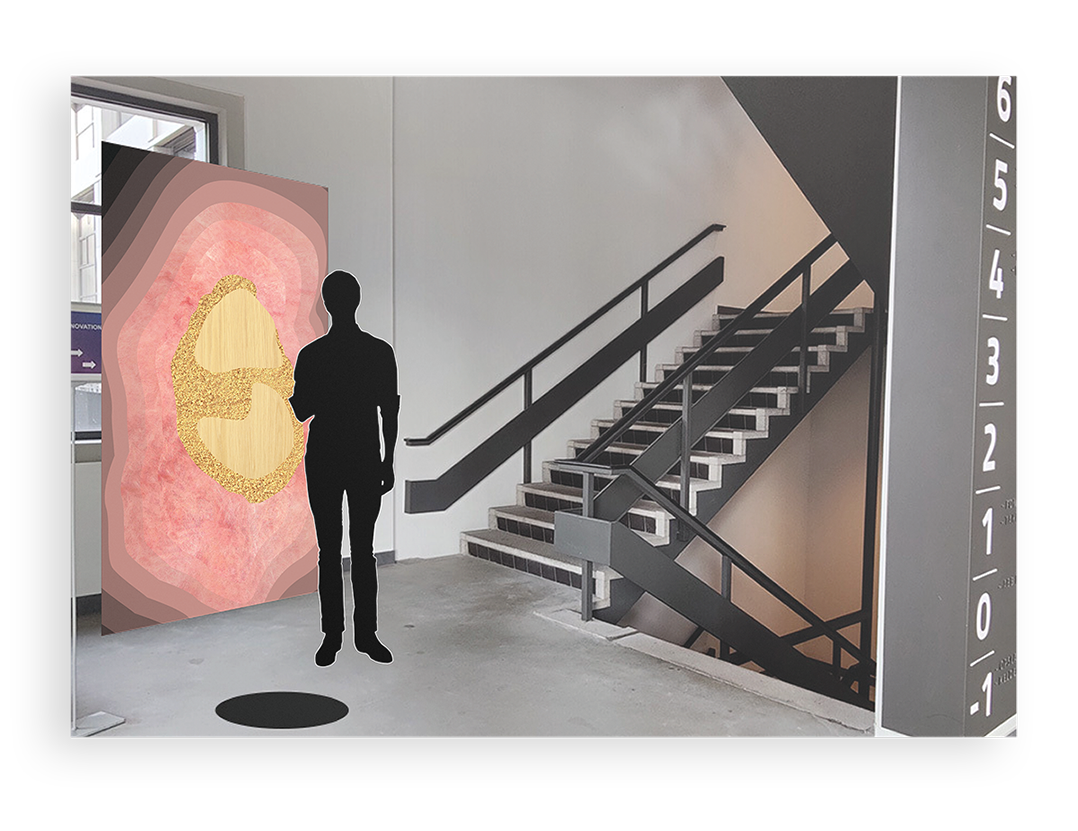
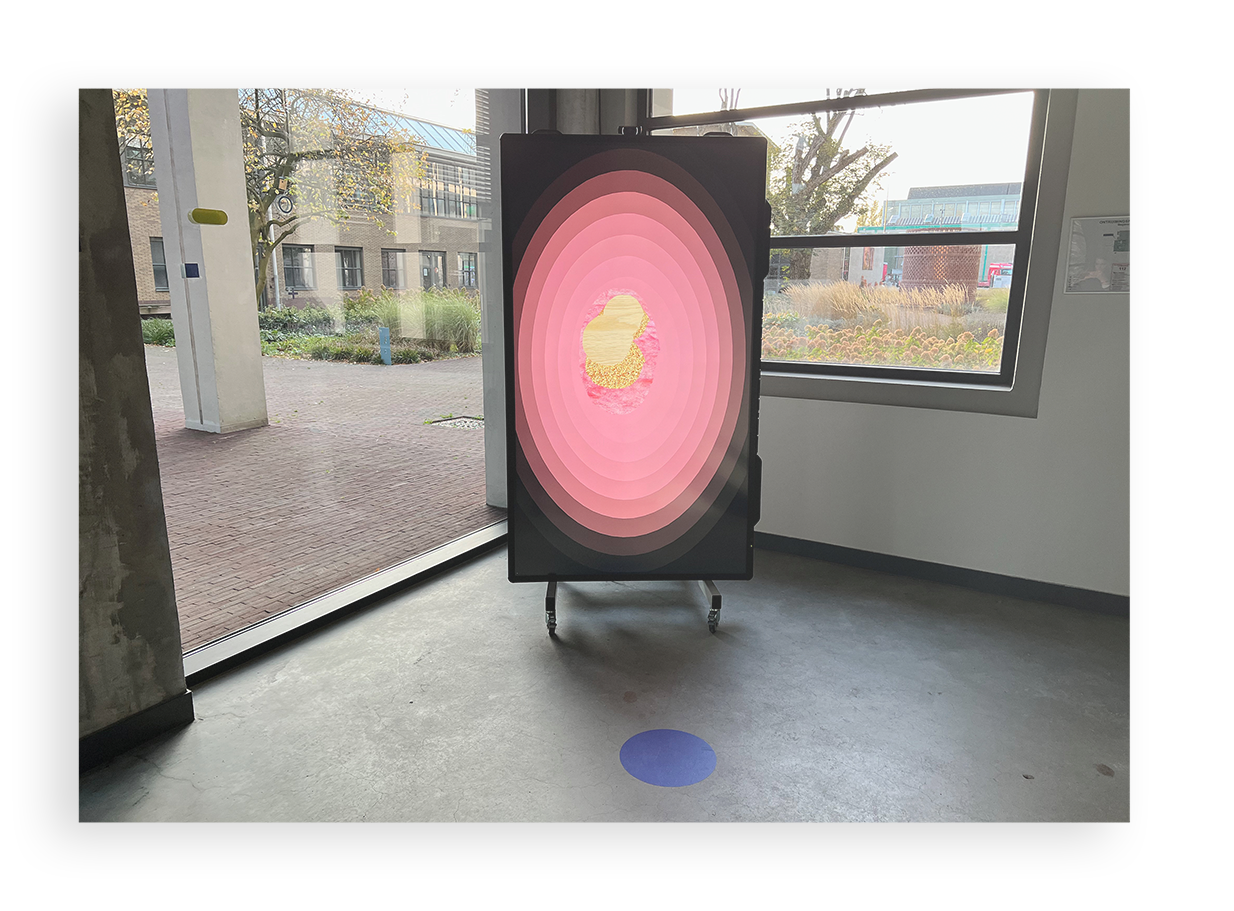
Changing DDW page

diff --git a/src/ddw.html b/src/ddw.html
@@ -60,7 +60,8 @@
         </div>
     </div>
 
-    <div class="ddw-introduction scrollspy-DDW" data-bs-spy="scrollDDW" data-bs-target="#navbar-DDW" data-bs-offset="0" tabindex="0" id="DDW">
+    <div class="ddw-introduction scrollspy-DDW" data-bs-spy="scrollDDW" data-bs-target="#navbar-DDW" data-bs-offset="0"
+        tabindex="0" id="DDW">
         <div class="container">
             <div class="pt-13 pb-13 pt-lg-9 pb-lg-9">
                 <div class="d-flex flex-column align-items-center ddw-text">
@@ -69,11 +70,59 @@
                         Every year the Dutch Design Week takes place in Eindhoven. This is a big design event where
                         designers present their work and ideas. DDW focuses mainly on the future of design and promotes
                         young talents who want to get involved here. The focus of the DDW event is on experimentation,
-                        innovation, and crossover.
+                        innovation, and crossover.<br>
                         For this year’s Dutch Design Week, Fontys offers its visitors an immersive and personalized,
-                        data-driven experience in their ICT InnovationLab.
+                        data-driven experience in their ICT InnovationLab. For this project, we Deltas had the task of
+                        brainstorming and coming up with an idea for DDW's immersive building experience. The main theme
+                        was interactive building and we had to come up with concepts that had to do with emotions and/or
+                        memories.
                         <br /><br />
                         Client: Fontys ICT
+                    </p>
+                </div>
+            </div>
+        </div>
+    </div>
+
+    <div class="ddw-collabs">
+        <div class="container-fluid">
+            <div class="row g-6 row-cols-md-2">
+                <img src="./assets/photos/DDW/ddw-header-01_1664359739_1800x1010.jpg" class="img-left" width="1000" />
+                <div class="collaberation ps-sm-7 ps-md-0 pe-sm-7 pe-md-4 pe-lg-8 pt-0 pt-lg-0 d-flex flex-column align-items-center align-items-md-start justify-content-center">
+                    <h2 class="text-info">Collaboration</h2>
+                    <p>This Dutch Design Week we are not working alone. The companies Hyper Culture and Studio Krom are
+                        working and assisting this project as well. <b>Hyper Culture</b> is a designer-director duo
+                        based in the Netherlands. For the DDW Fontys projects, they have made an unique branding that
+                        will tie everything together.
+                        <br><b>Studio Krom</b> is a design studio that explores the possibilities of new media. They
+                        have advised us on our ideas and concepts throughout the project and have helped us developing
+                        our interactive installations.
+                    </p>
+                </div>
+            </div>
+        </div>
+    </div>
+
+    <div class="ddw-project">
+        <div class="container">
+            <div class="pt-13 pb-13 pt-lg-9 pb-lg-9">
+                <div class="d-flex flex-column align-items-center ddw-text">
+                    <h2 class="text-info pb-3">Concepting</h2>
+                    <p class="ps-lg-8 pe-lg-8 ps-xl-10 pe-xl-10">
+                        When coming up with concepts, we had to think about the question, “How does the building see
+                        you?”. After a series of iterations, I combined two of my concepts into one.<br>
+                        The first concept is called <b>"Material Faces”</b>. In this case the building sees the visitors
+                        as a
+                        reflection of itself, as a face with different materials and textures. On the face of the
+                        visitor, different building materials and textures will appear, that make up the features of the
+                        face. The type of materials and colors that the visitors see were based on the emotion the
+                        visitor feels, this is measured through emotion detection.
+                        <br><br>
+                        The second concept is called <b>“Emotional Warmth”</b>. The building sees you as body heat. It
+                        can
+                        recognize the visitor’s emotion and shows them the visitors body heat. Every emotion will look
+                        different, because when feeling different emotions, people will feel warm and cold spots on
+                        different parts of the body.
                     </p>
                 </div>
             </div>
@@ -87,24 +136,19 @@
         </div>
     </div>
 
-    <div class="ladiesgamers-project">
+    <div class="ddw-project">
         <div class="container">
             <div class="pt-13 pb-13 pt-lg-9 pb-lg-9">
                 <div class="d-flex flex-column align-items-center ddw-text">
-                    <h2 class="text-info pb-3">Concepting</h2>
+                    <h2 class="text-info pb-3">I move with you</h2>
                     <p class="ps-lg-8 pe-lg-8 ps-xl-10 pe-xl-10">
-                        For this project, we Deltas had the task of brainstorming and coming up with an idea for DDW's
-                        immersive building experience. The main theme was interactive building and we had to come up
-                        with concepts that had to do with emotions and/or memories.
-                        <br>After many iterations, I combined two of my concepts. The first concept was about the
-                        building seeing you as a building material, because the building itself is made of different
-                        materials. The visitor's face is scanned, and the program renders their face with different
-                        materials and textures. In the second concept, the building sees you as body heat. It reads your
-                        emotions and shows you where the hot and cold spots are based on that.
-                        <br><br>
-                        The final product is a combination of the two concepts explained above. The building sees the
-                        visitor's body as different building materials and shows the visitor a mirror in which the
-                        person is a material.
+                        This is the combination of the two concepts mentioned above, the final product. The visitor is
+                        detected with object tracking by the building. De building will show the visitor a reflection of
+                        itself by making the visitor’s body into an abstract shape with different materials and
+                        textures. There are multiple abstract shape compositions that represent one of four emotions.
+                        These compositions have different materials, textures, way of moving and feels to them. When the
+                        visitor stands in front of the big screen, the building will assign one composition to the
+                        visitor. It is up to the visitor to figure out the emotion.
                     </p>
                 </div>
             </div>
@@ -112,9 +156,11 @@
     </div>
 
     <div class="ddw-images">
-        <div class="row g-0 row-cols-sm-2">
+        <div class="row g-1 row-cols-sm-2">
             <img src="./assets/photos/DDW/Sketch Final-29.png" class="col img-left" />
-            <img src="./assets/photos/DDW/Sketch Final-30.png" class="col img-right" />
+            <img src="./assets/photos/DDW/SetUp.png" class="col img-right" />
+            <img src="./assets/photos/DDW/BlobOne.png" class="col img-left" />
+            <img src="./assets/photos/DDW/Testing.png" class="col img-right" />
         </div>
     </div>
 
